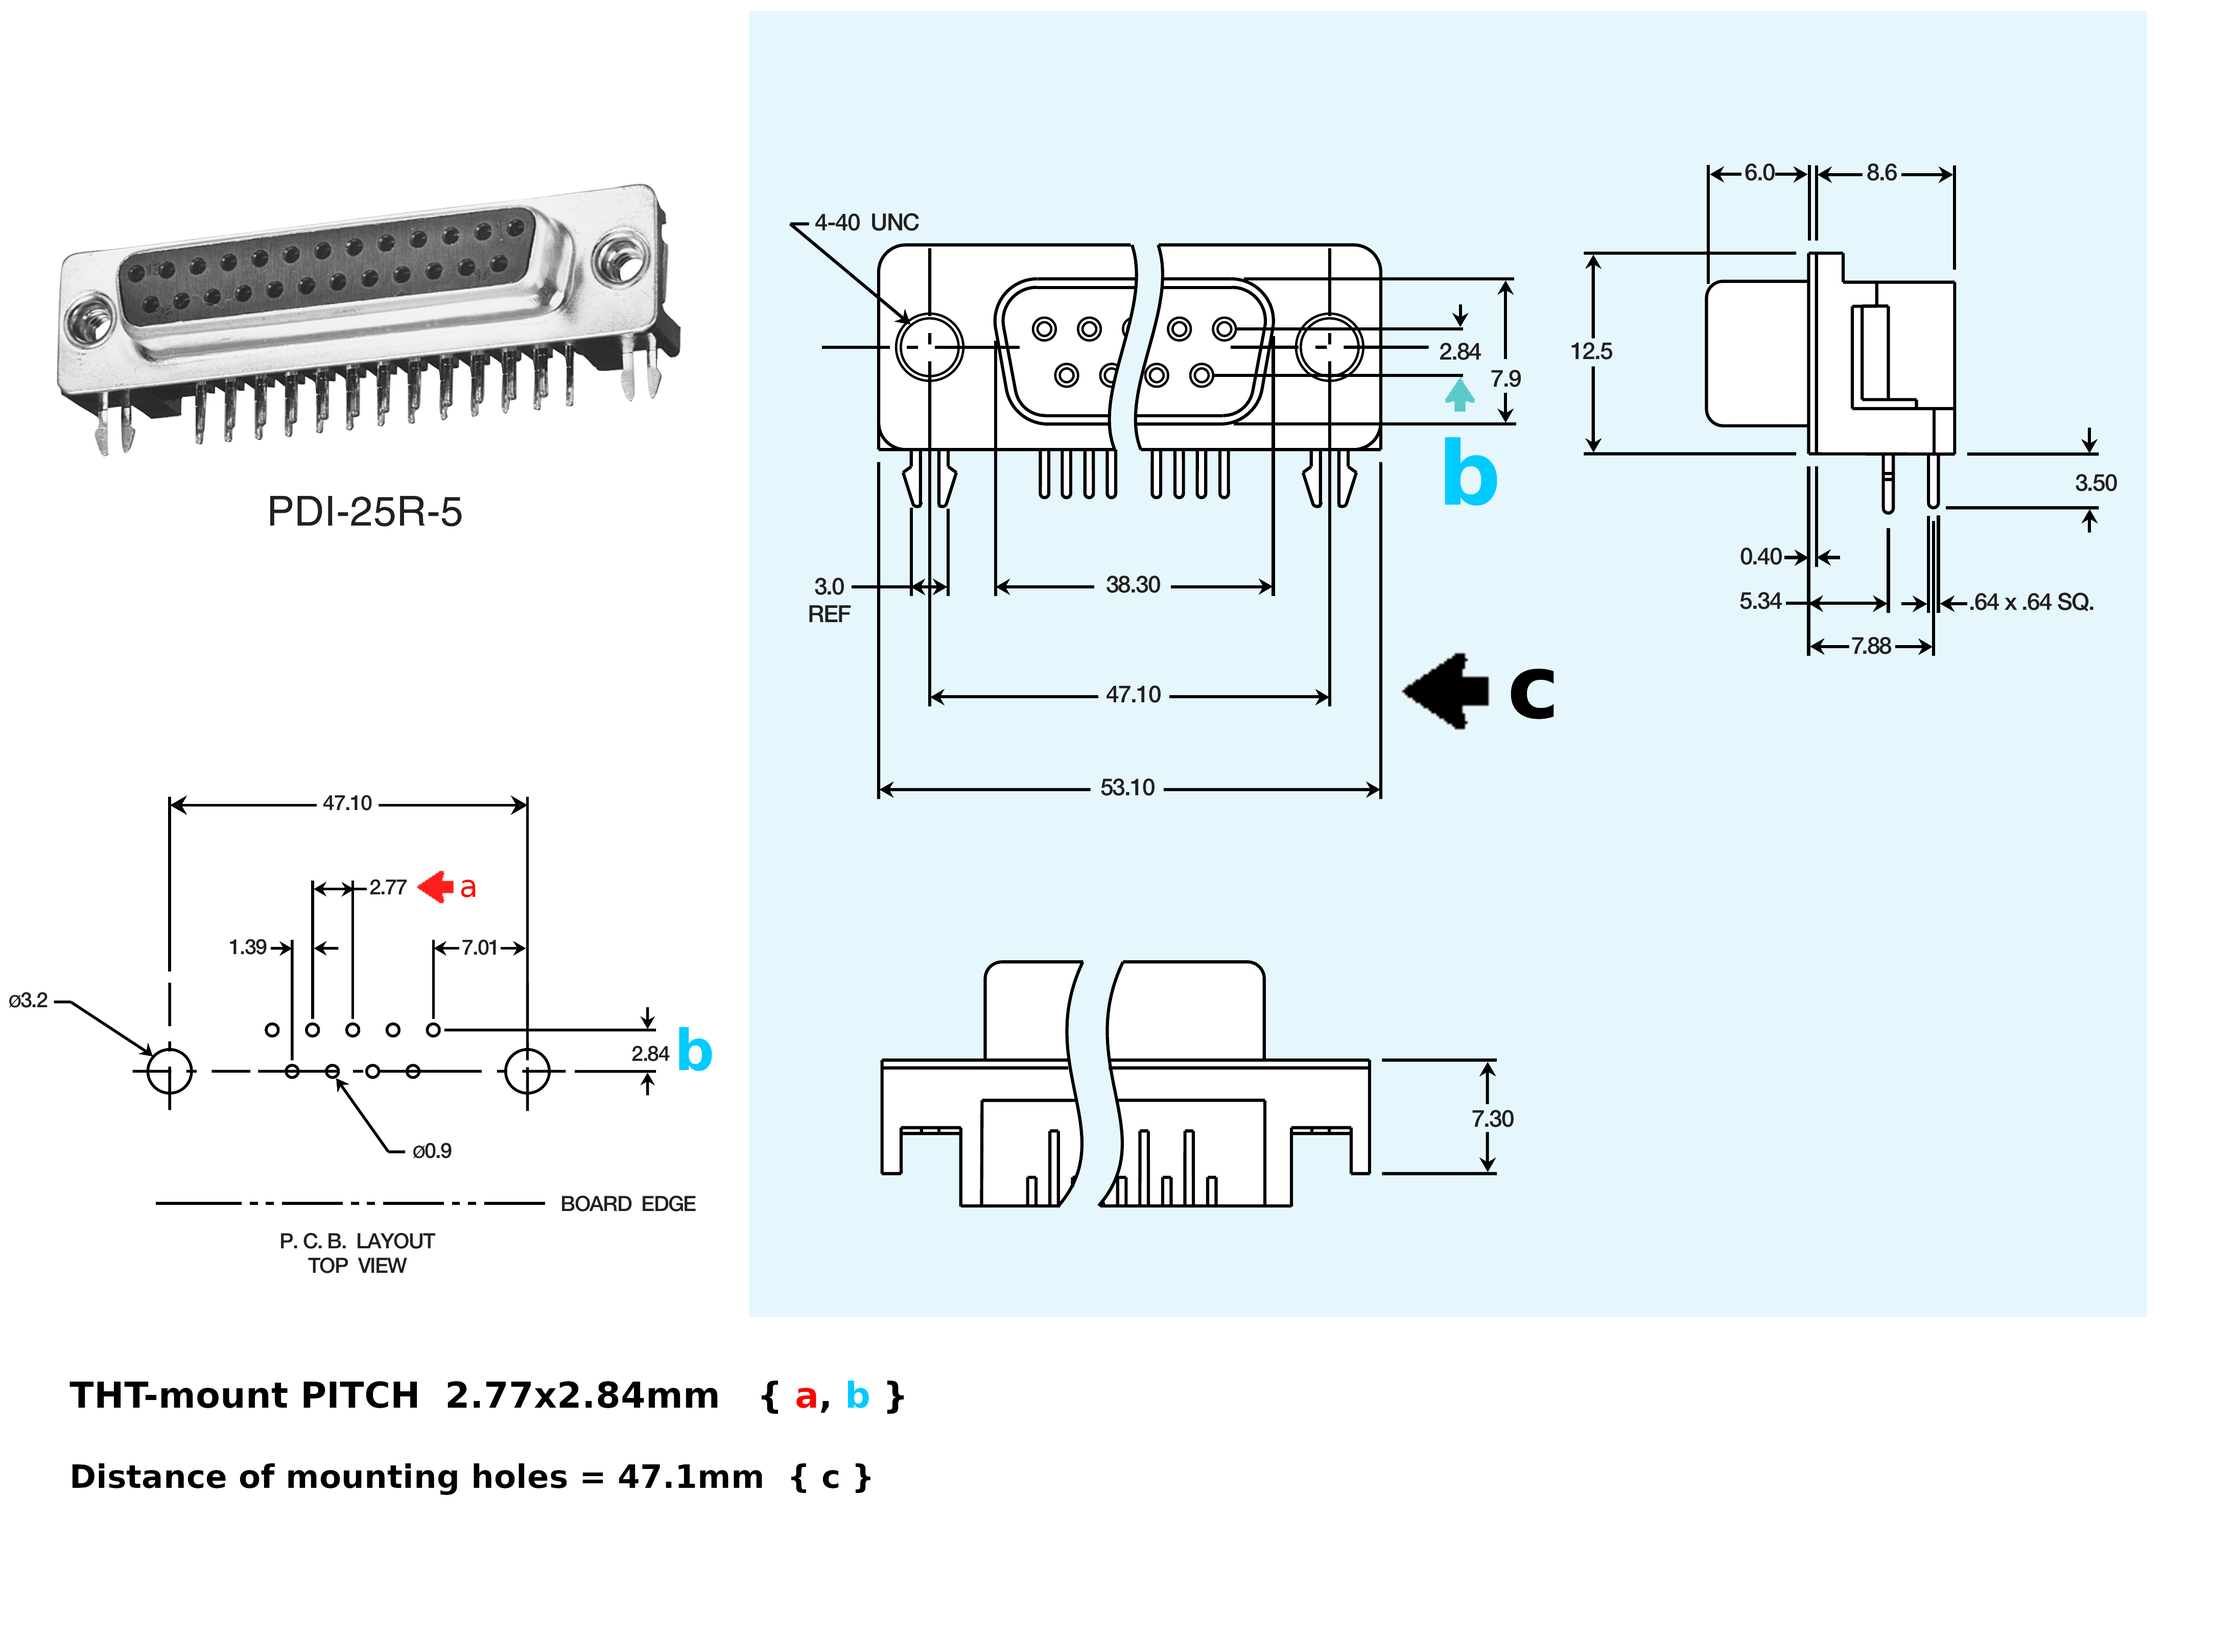
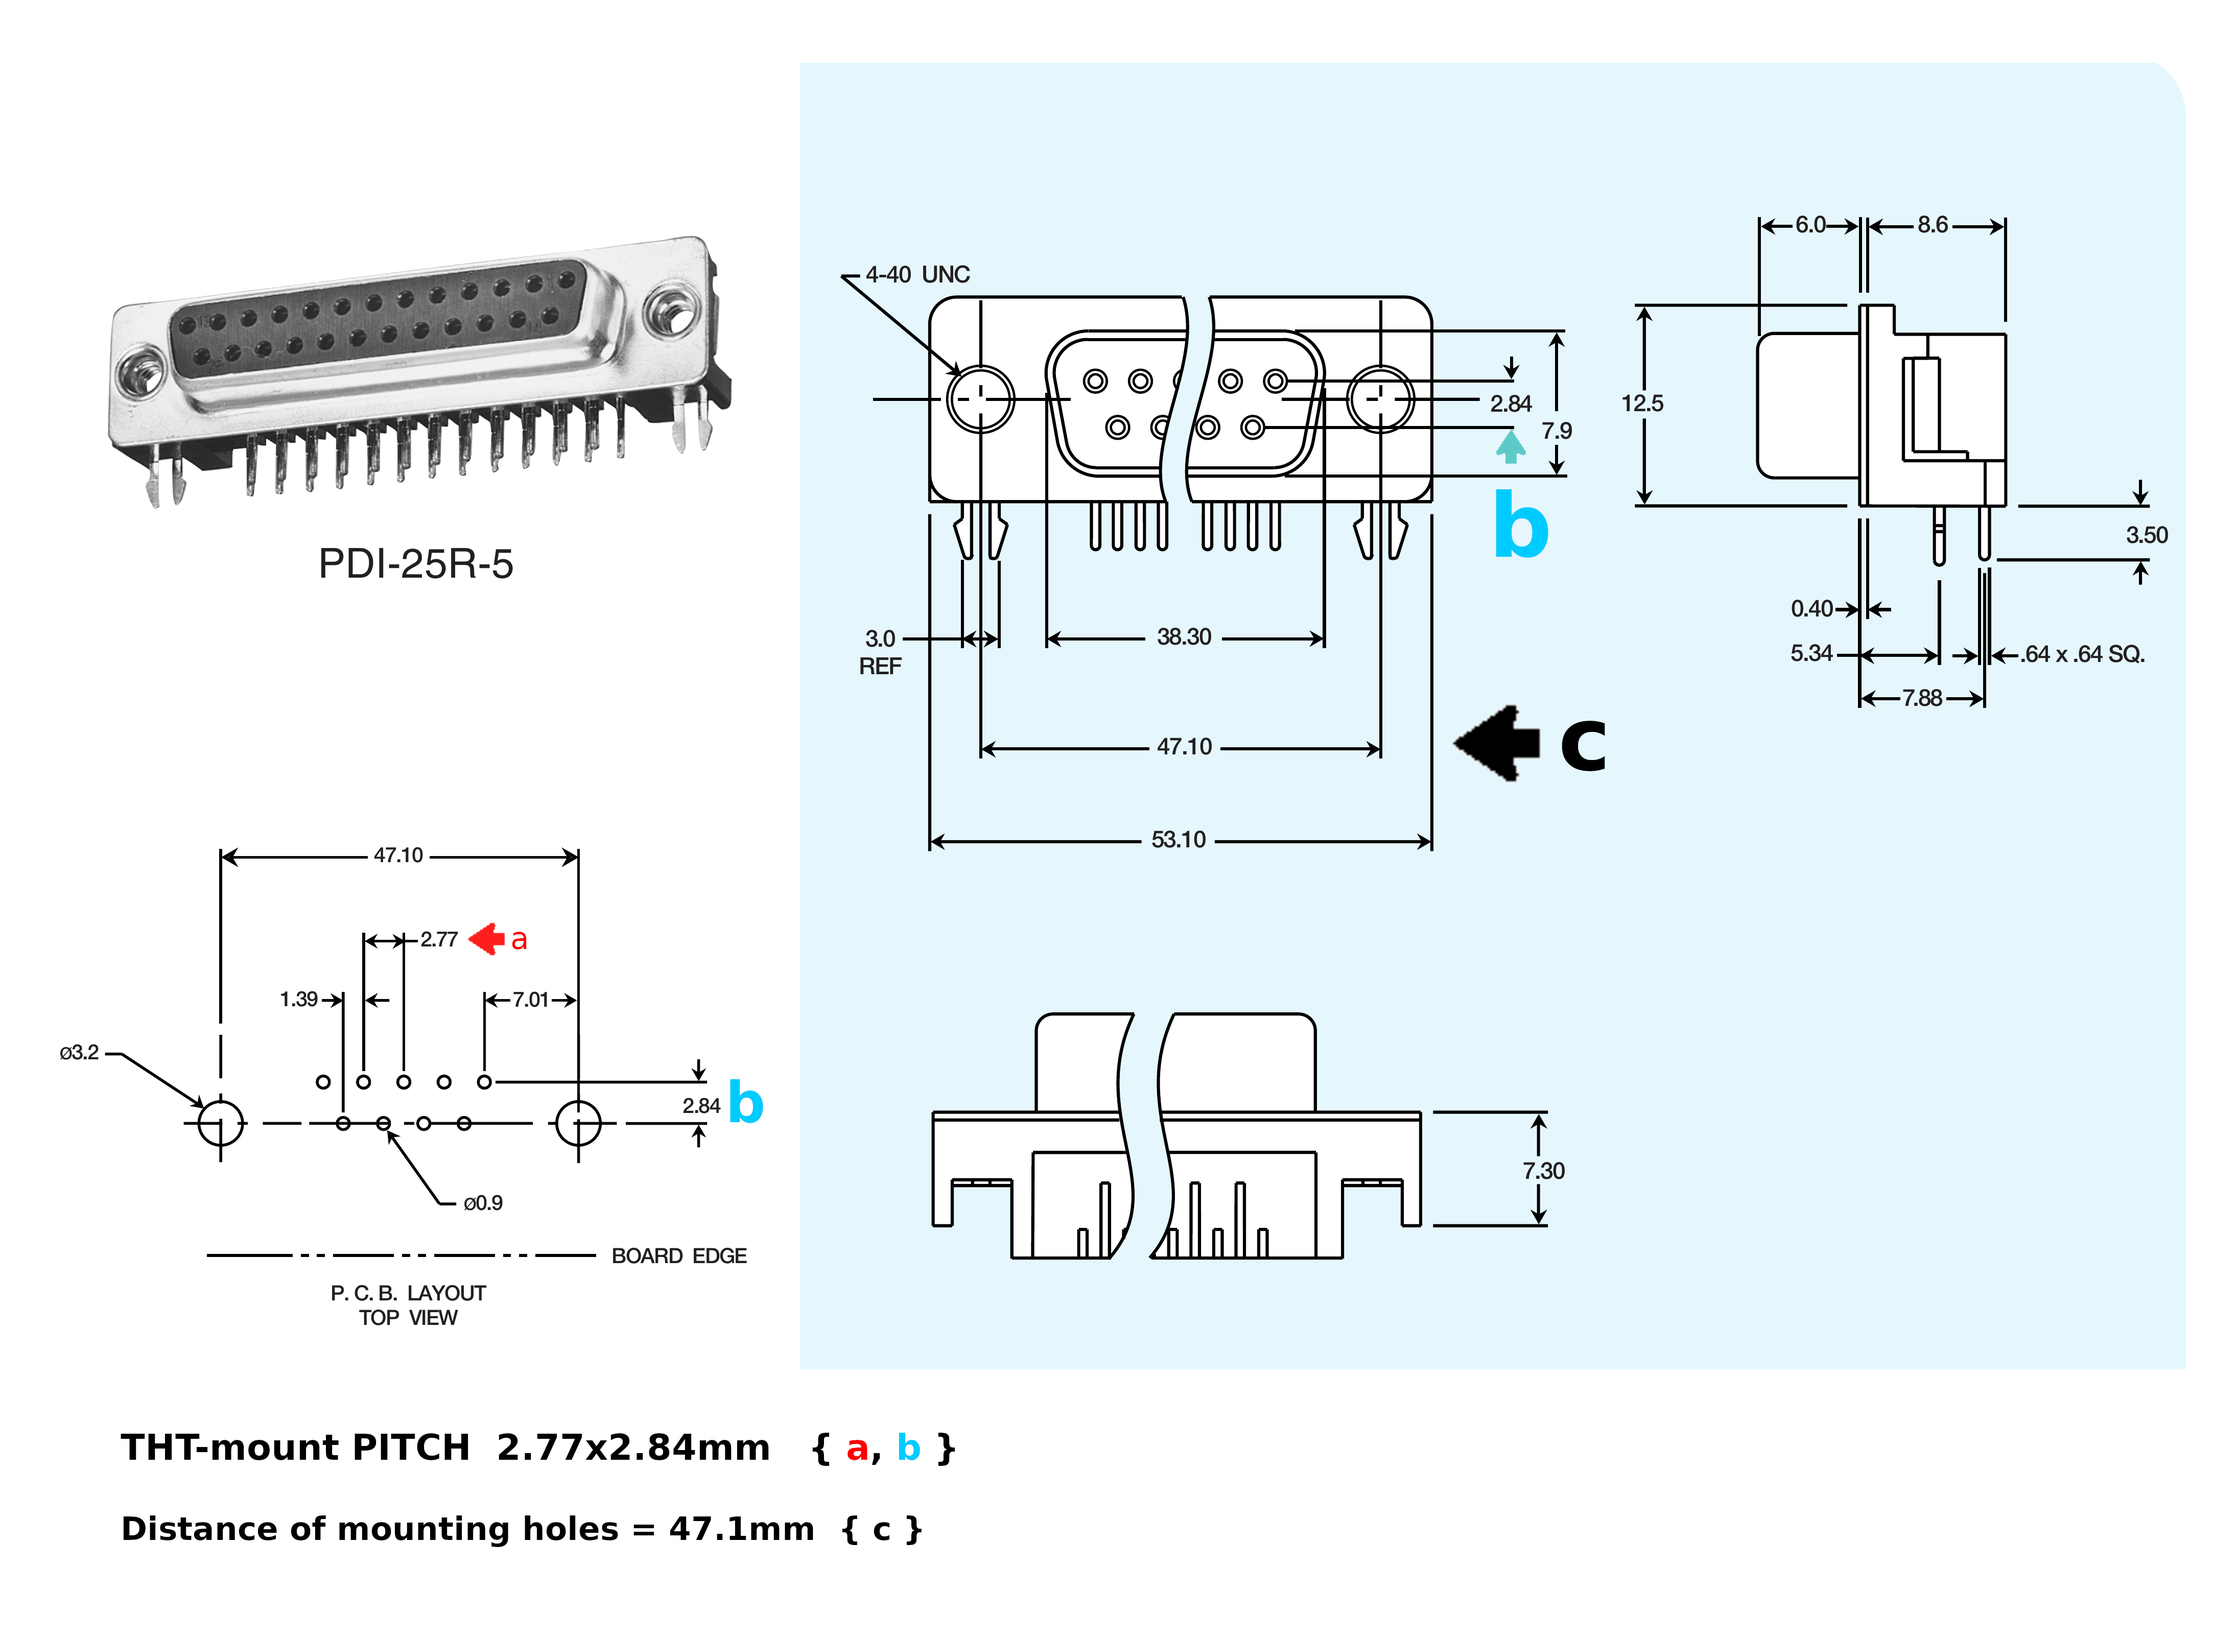
just go

diff --git a/README.md b/README.md
@@ -31,11 +31,8 @@ The D-subminiature or D-sub is a common type of electrical connector.
 
 <p align="center">
   <img src="PCB_symbol\Dim.png" width="972" height="327">
-  <img src="PCB_symbol\FIND_PIN_DETAILS.png" width="972" height="327">
+  <img src="PCB_symbol\FIND_PIN_DETAILS.png" width="4379" height="4379">
 </p>
-
-
-
 
 
 
